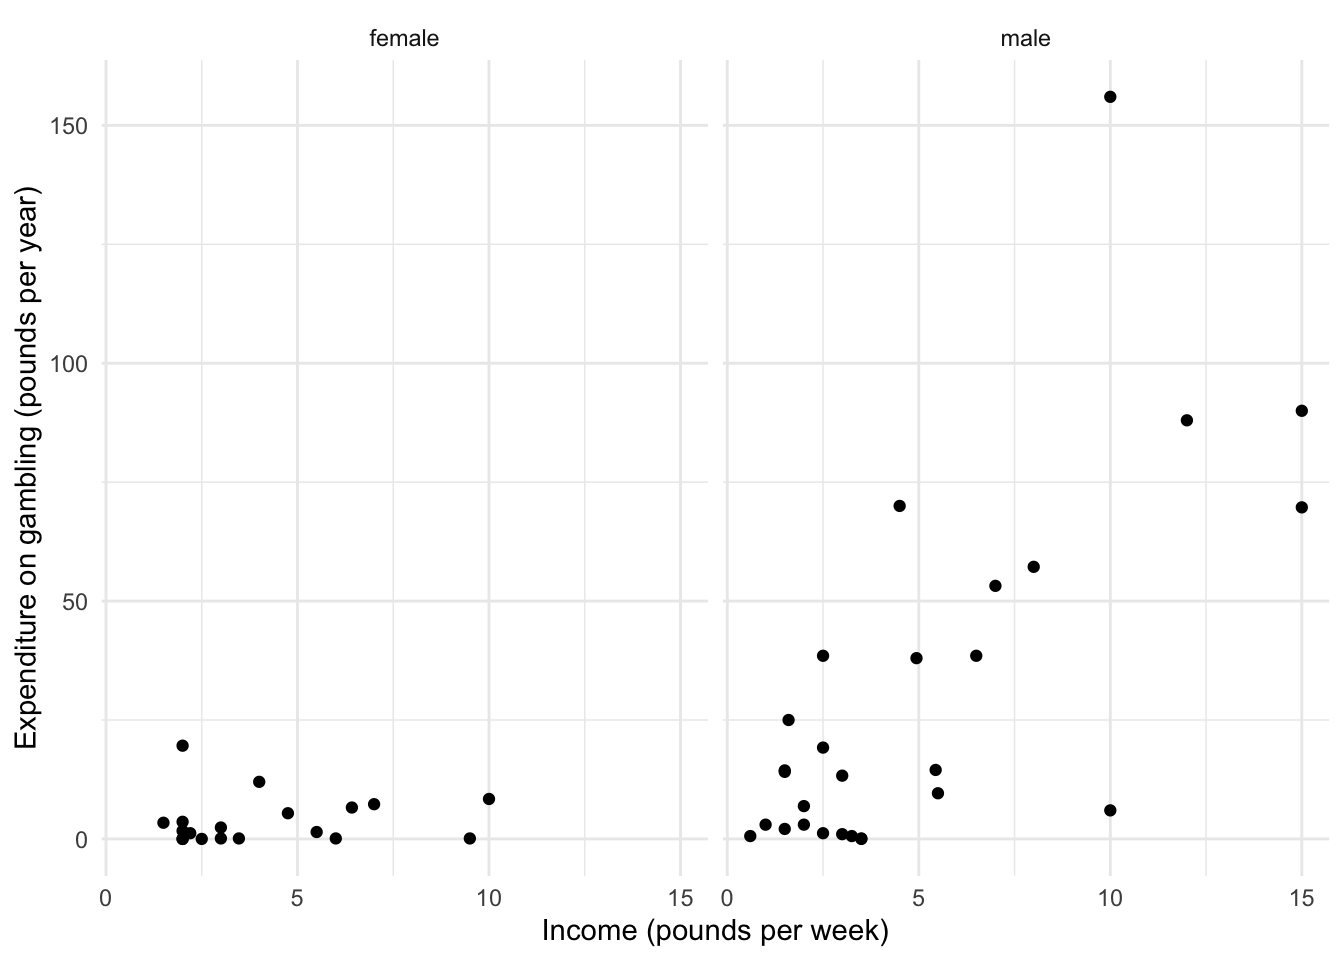
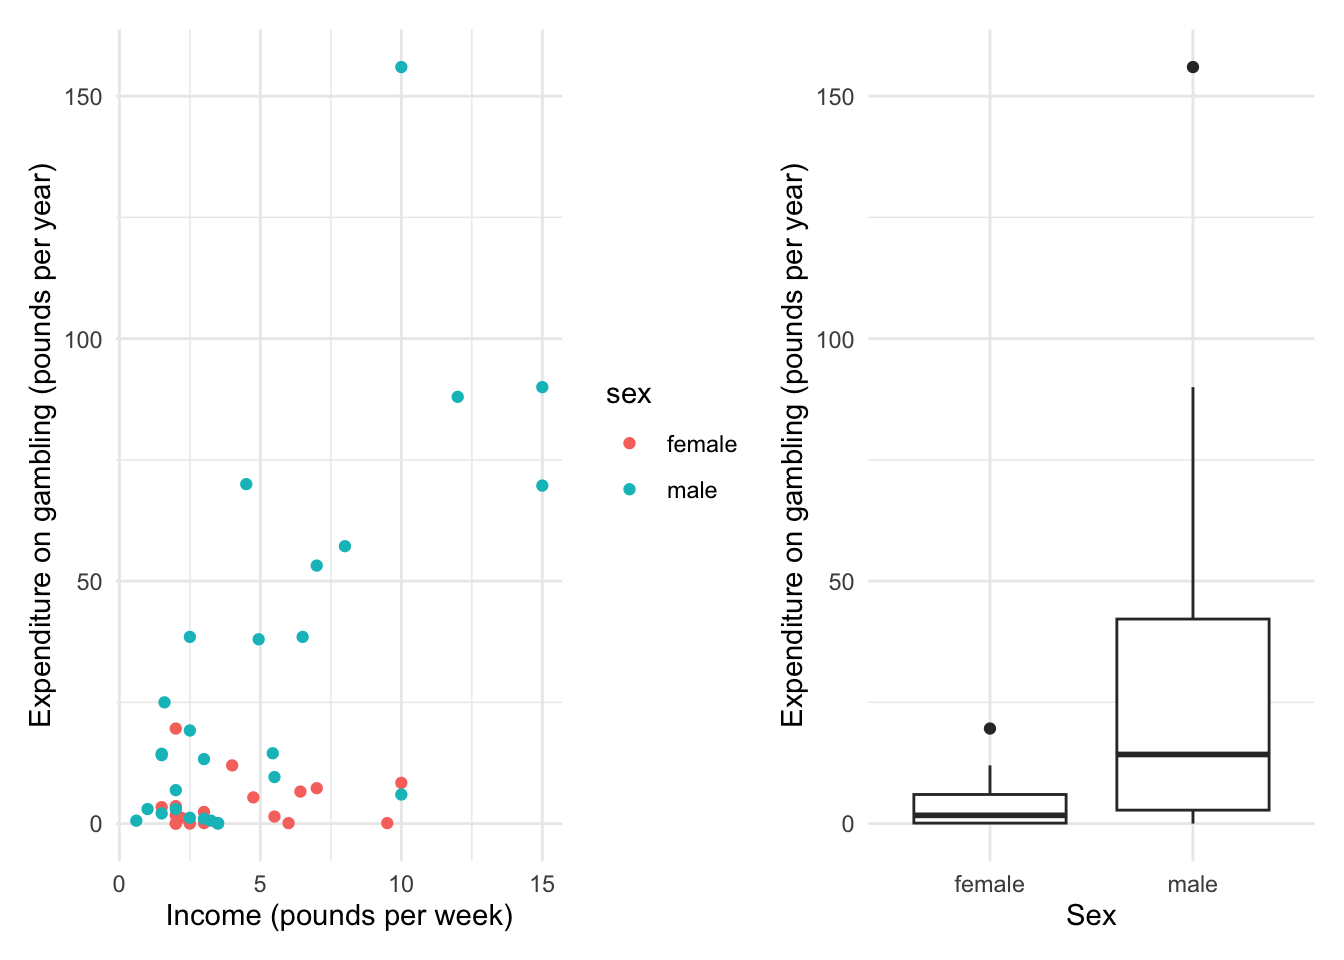
Expand analysis section: add gender and income effects, update figures and text for clarity

diff --git a/docs/posts/teen_gamble/index.html b/docs/posts/teen_gamble/index.html
@@ -23,6 +23,40 @@ ul.task-list li input[type="checkbox"] {
   margin: 0 0.8em 0.2em -1em; /* quarto-specific, see https://github.com/quarto-dev/quarto-cli/issues/4556 */ 
   vertical-align: middle;
 }
+/* CSS for syntax highlighting */
+pre > code.sourceCode { white-space: pre; position: relative; }
+pre > code.sourceCode > span { line-height: 1.25; }
+pre > code.sourceCode > span:empty { height: 1.2em; }
+.sourceCode { overflow: visible; }
+code.sourceCode > span { color: inherit; text-decoration: inherit; }
+div.sourceCode { margin: 1em 0; }
+pre.sourceCode { margin: 0; }
+@media screen {
+div.sourceCode { overflow: auto; }
+}
+@media print {
+pre > code.sourceCode { white-space: pre-wrap; }
+pre > code.sourceCode > span { display: inline-block; text-indent: -5em; padding-left: 5em; }
+}
+pre.numberSource code
+  { counter-reset: source-line 0; }
+pre.numberSource code > span
+  { position: relative; left: -4em; counter-increment: source-line; }
+pre.numberSource code > span > a:first-child::before
+  { content: counter(source-line);
+    position: relative; left: -1em; text-align: right; vertical-align: baseline;
+    border: none; display: inline-block;
+    -webkit-touch-callout: none; -webkit-user-select: none;
+    -khtml-user-select: none; -moz-user-select: none;
+    -ms-user-select: none; user-select: none;
+    padding: 0 4px; width: 4em;
+  }
+pre.numberSource { margin-left: 3em;  padding-left: 4px; }
+div.sourceCode
+  {   }
+@media screen {
+pre > code.sourceCode > span > a:first-child::before { text-decoration: underline; }
+}
 </style>
 
 
@@ -156,7 +190,11 @@ ul.task-list li input[type="checkbox"] {
   <li><a href="#introduction" id="toc-introduction" class="nav-link active" data-scroll-target="#introduction">Introduction</a></li>
   <li><a href="#objective" id="toc-objective" class="nav-link" data-scroll-target="#objective">Objective</a></li>
   <li><a href="#data" id="toc-data" class="nav-link" data-scroll-target="#data">Data</a></li>
-  <li><a href="#analysis" id="toc-analysis" class="nav-link" data-scroll-target="#analysis">Analysis</a></li>
+  <li><a href="#analysis" id="toc-analysis" class="nav-link" data-scroll-target="#analysis">Analysis</a>
+  <ul class="collapse">
+  <li><a href="#effect-of-gender" id="toc-effect-of-gender" class="nav-link" data-scroll-target="#effect-of-gender">Effect of Gender</a></li>
+  <li><a href="#effect-of-gender-and-income" id="toc-effect-of-gender-and-income" class="nav-link" data-scroll-target="#effect-of-gender-and-income">Effect of Gender and Income</a></li>
+  </ul></li>
   </ul>
 </nav>
     </div>
@@ -169,11 +207,6 @@ ul.task-list li input[type="checkbox"] {
 
 <section id="introduction" class="level2">
 <h2 class="anchored" data-anchor-id="introduction">Introduction</h2>
-<div class="cell">
-<div class="cell-output cell-output-stdout">
-<pre><code>- The project is out-of-sync -- use `renv::status()` for details.</code></pre>
-</div>
-</div>
 </section>
 <section id="objective" class="level2">
 <h2 class="anchored" data-anchor-id="objective">Objective</h2>
@@ -259,7 +292,7 @@ ul.task-list li input[type="checkbox"] {
 </div>
 </div>
 </div>
-<p>There also seems positive association between income and amount spent on gambling (at least for males). This is not very surprising as one would expect that people with higher income would be able to spend more on gambling. <br> From what this plot indicates, it may be worth evaluating if there is a differential effect of income based on sex.</p>
+<p>There also seems positive association between income and amount spent on gambling (at least for males). This is not very surprising as one would expect that individuals with higher income would be able to spend more on gambling. <br> From what this plot indicates, it may be worth evaluating if there is a differential effect of income based on gender.</p>
 <div class="cell">
 <div class="cell-output-display">
 <div>
@@ -272,30 +305,13 @@ ul.task-list li input[type="checkbox"] {
 </section>
 <section id="analysis" class="level2">
 <h2 class="anchored" data-anchor-id="analysis">Analysis</h2>
-<p>Our variable of interest gamble is strictly positive and continuous with a long tail. We consider modelling log of gamble value. This alters the interpretation of model mechanics but it remains sensible, e.g.&nbsp;males spend x% more than females or 1£ increase in income leads to y% increase in expenditure in gambling. <br> Side note: This is different from using GLM with Gaussian family and log link. Because in original scale, variance is non constant and multiplicative effects are expected on original scale of response (as opposed to expected value of response). <br></p>
+<p>Our variable of interest gamble is strictly positive and continuous with a long tail. We consider taking log of gamble value. This alters the interpretation of model mechanics but it remains sensible, e.g.&nbsp;males spend x% more than females or 1£ increase in income leads to y% increase in expenditure in gambling. <br> Side note: This is different from using GLM with Gaussian family and log link. Because in original scale, variance is non constant and multiplicative effects are expected on original scale of response (as opposed to expected value of response). <br></p>
 <p>To be able to take logarithms of cases where 0£ are spent on gambling, 1£ is added to gambling spent for all cases. This value is chosen to ensure 0 for cases where 0£ are spent and values close to 0 for small spends, additionally this does not introduce un necessary -ve outlier values resulting in better fit. <br></p>
+<p>Individual <em>24</em> seems to have spent 156£ on gambling and likely seems an outlier. This seems to be outside the usual range of expenditure and will not inform the study in a general sense. Hence, we remove this point from the analysis.</p>
+<section id="effect-of-gender" class="level3">
+<h3 class="anchored" data-anchor-id="effect-of-gender">Effect of Gender</h3>
+<p>It seems plausible that males are spending more on gambling compared to females. This is also indicated by the boxplot below. We will evaluate this hypothesis using a simple linear model with <em>log(gamble + 1)</em> as response and <em>sex</em> as explanatory variable.</p>
 <div class="cell">
-<div class="cell-output cell-output-stdout">
-<pre><code>
-Call:
-lm(formula = log(gamble + 1) ~ sex + income, data = teengamb)
-
-Residuals:
-     Min       1Q   Median       3Q      Max 
--2.27059 -0.77305  0.08595  0.84018  2.32870 
-
-Coefficients:
-            Estimate Std. Error t value Pr(&gt;|t|)    
-(Intercept)  0.31035    0.33082   0.938 0.353298    
-sexmale      1.28432    0.34421   3.731 0.000543 ***
-income       0.19312    0.04808   4.017 0.000227 ***
----
-Signif. codes:  0 '***' 0.001 '**' 0.01 '*' 0.05 '.' 0.1 ' ' 1
-
-Residual standard error: 1.15 on 44 degrees of freedom
-Multiple R-squared:  0.4357,    Adjusted R-squared:   0.41 
-F-statistic: 16.98 on 2 and 44 DF,  p-value: 3.416e-06</code></pre>
-</div>
 <div class="cell-output-display">
 <div>
 <figure class="figure">
@@ -303,9 +319,19 @@ F-statistic: 16.98 on 2 and 44 DF,  p-value: 3.416e-06</code></pre>
 </figure>
 </div>
 </div>
+<div class="cell-output cell-output-stdout">
+<pre><code>Analysis of Variance Table
+
+Response: log_gamble
+          Df Sum Sq Mean Sq F value   Pr(&gt;F)   
+sex        1 20.365  20.365  12.261 0.001074 **
+Residuals 44 73.085   1.661                    
+---
+Signif. codes:  0 '***' 0.001 '**' 0.01 '*' 0.05 '.' 0.1 ' ' 1</code></pre>
 </div>
-<p>We find that there is no obvious problem with the errors. Additionally, the fit is decent and the coefficients for both Sex (Male) and Income are significant. <br></p>
-<p>Jensen’s inequality dictates that simply taking exponents of predictions will under-predict the expected value of response variable <code>f(E(X)) &lt;= E(f(X))</code> , a custom predict method is defined which also corrects for the 1£ offset used in model.</p>
+</div>
+<p><strong>Gender seems to have statistically significant association with gambling expenditure</strong>. <br> Anova procedure is equivalent to a t-test with constant variance assumption, which seems fair from the Boxplot above. They test for the same effect and result in identical p-values. <br></p>
+<p>Before moving to analysing joint effect of Income and Gender, it is imperative to check if the effect of gender is not due to confounding by income. It could well be the case that individuals with higher income spend more on gambling. But then if high income itself is associated with gender, then the above effect of gender may be spurious. We will explore this next.</p>
 <div class="cell">
 <div class="cell-output-display">
 <div>
@@ -314,9 +340,87 @@ F-statistic: 16.98 on 2 and 44 DF,  p-value: 3.416e-06</code></pre>
 </figure>
 </div>
 </div>
+<div class="cell-output cell-output-stdout">
+<pre><code>Analysis of Variance Table
+
+Response: income
+          Df Sum Sq Mean Sq F value Pr(&gt;F)
+sex        1   4.58  4.5754  0.3685 0.5469
+Residuals 44 546.25 12.4149               </code></pre>
+</div>
+</div>
+<p>The above plot and the test indicates that income is not significantly associated with gender and hence does not mask its effect on gambling expenditure. <br></p>
+<p>For the analysis that follows, we shall print the summary of gender only model to show the Estimate value and Std. Error of gender.</p>
+<div class="cell">
+<div class="sourceCode cell-code" id="cb3"><pre class="sourceCode r code-with-copy"><code class="sourceCode r"><span id="cb3-1"><a href="#cb3-1" aria-hidden="true" tabindex="-1"></a><span class="fu">summary</span>(gender_model)</span></code><button title="Copy to Clipboard" class="code-copy-button"><i class="bi"></i></button></pre></div>
+<div class="cell-output cell-output-stdout">
+<pre><code>
+Call:
+lm(formula = log_gamble ~ sex, data = teengamb)
+
+Residuals:
+    Min      1Q  Median      3Q     Max 
+-2.4630 -1.0616  0.1547  1.0979  2.0478 
+
+Coefficients:
+            Estimate Std. Error t value Pr(&gt;|t|)    
+(Intercept)   1.1117     0.2957   3.760 0.000498 ***
+sexmale       1.3513     0.3859   3.502 0.001074 ** 
+---
+Signif. codes:  0 '***' 0.001 '**' 0.01 '*' 0.05 '.' 0.1 ' ' 1
+
+Residual standard error: 1.289 on 44 degrees of freedom
+Multiple R-squared:  0.2179,    Adjusted R-squared:  0.2002 
+F-statistic: 12.26 on 1 and 44 DF,  p-value: 0.001074</code></pre>
+</div>
+</div>
+</section>
+<section id="effect-of-gender-and-income" class="level3">
+<h3 class="anchored" data-anchor-id="effect-of-gender-and-income">Effect of Gender and Income</h3>
+<p>With <em>income</em> variable included alongside <em>sex</em>, the effect of <em>sex</em> remains significant (although is reduced from 1.35 to 1.24 with lower Std. Error). <br> Income itself is significantly associated with gambling expenditure. <br> The intercept is non-significant indicating that for reference class (female), gambling expenditure is likely 0£ if they have close to 0 income and it makes intuitive sense (although for adults and addicts this may not necessarily be true). <br> This model does not include an interaction between <em>sex</em> and <em>income</em> for simplificty, yet fits the data well. Model diagnostics also appear acceptable. <br></p>
+<div class="cell">
+<div class="cell-output cell-output-stdout">
+<pre><code>
+Call:
+lm(formula = log_gamble ~ sex + income, data = teengamb)
+
+Residuals:
+    Min      1Q  Median      3Q     Max 
+-2.2327 -0.7944  0.1318  0.8419  2.2973 
+
+Coefficients:
+            Estimate Std. Error t value Pr(&gt;|t|)    
+(Intercept)  0.37092    0.33009   1.124 0.267373    
+sexmale      1.23699    0.34216   3.615 0.000782 ***
+income       0.17852    0.04869   3.667 0.000671 ***
+---
+Signif. codes:  0 '***' 0.001 '**' 0.01 '*' 0.05 '.' 0.1 ' ' 1
+
+Residual standard error: 1.138 on 43 degrees of freedom
+Multiple R-squared:  0.4042,    Adjusted R-squared:  0.3765 
+F-statistic: 14.59 on 2 and 43 DF,  p-value: 1.46e-05</code></pre>
+</div>
+<div class="cell-output-display">
+<div>
+<figure class="figure">
+<p><img src="index_files/figure-html/unnamed-chunk-8-1.png" class="img-fluid figure-img" width="672"></p>
+</figure>
+</div>
+</div>
+</div>
+<p>Jensen’s inequality dictates that simply taking exponents of predictions will under-predict the expected value of response variable <code>f(E(X)) &lt;= E(f(X))</code> , a custom predict method is defined which also corrects for the 1£ offset used in model.</p>
+<div class="cell">
+<div class="cell-output-display">
+<div>
+<figure class="figure">
+<p><img src="index_files/figure-html/unnamed-chunk-9-1.png" class="img-fluid figure-img" width="672"></p>
+</figure>
+</div>
+</div>
 </div>
 
 
+</section>
 </section>
 
 </main> <!-- /main -->

diff --git a/docs/index.html b/docs/index.html
@@ -206,7 +206,7 @@ window.Quarto = {
     </div>
 </div>
 <div class="list quarto-listing-default">
-<div class="quarto-post image-right" data-index="0" data-categories="cmVncmVzc2lvbiUyQ0FOT1ZB" data-listing-date-sort="1760569200000" data-listing-file-modified-sort="1760632566910" data-listing-date-modified-sort="NaN" data-listing-reading-time-sort="5" data-listing-word-count-sort="913">
+<div class="quarto-post image-right" data-index="0" data-categories="cmVncmVzc2lvbiUyQ0FOT1ZB" data-listing-date-sort="1760569200000" data-listing-file-modified-sort="1760636004681" data-listing-date-modified-sort="NaN" data-listing-reading-time-sort="6" data-listing-word-count-sort="1104">
 <div class="thumbnail">
 <p><a href="./posts/teen_gamble/index.html" class="no-external"></a></p><a href="./posts/teen_gamble/index.html" class="no-external">
 <p><img loading="lazy" src="./posts/teen_gamble/gambling.jpeg" class="thumbnail-image"></p>
